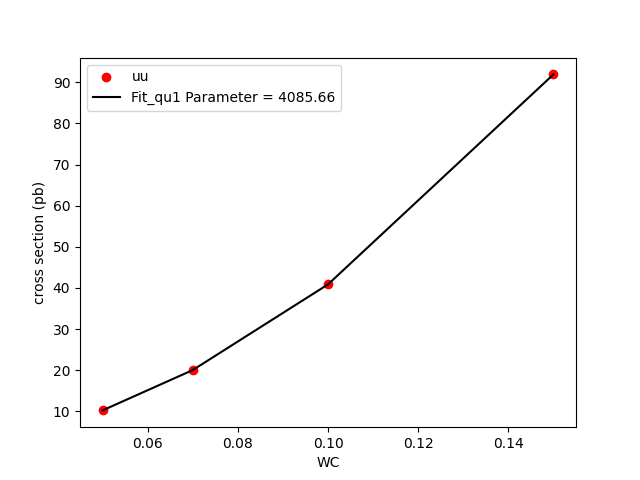
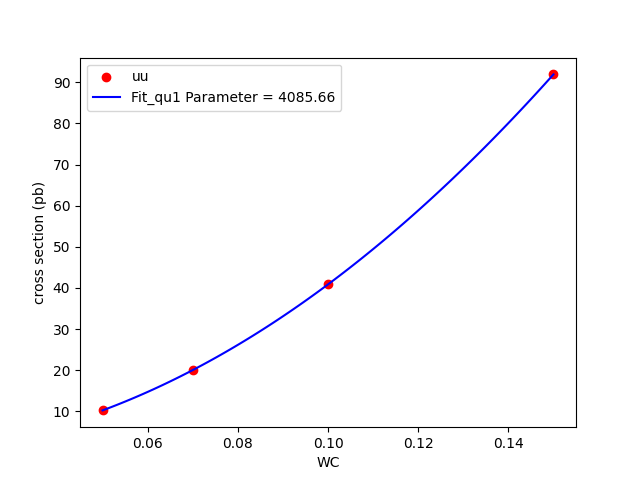
Removed old files, modifed old limit calc plotting

diff --git a/Limit_Calculation/Old_Method/Calc_Limits.py b/Limit_Calculation/Old_Method/Calc_Limits.py
@@ -8,7 +8,9 @@ def fit_function(x, a):
 def Plot_Fit(fit_result, wc, xs, string):
     plt.figure()
     plt.scatter(wc, xs, c='red', marker='o', label='uu')
-    plt.plot(wc, fit_function(wc, *fit_result), c='black', label=string + " Parameter = " + str(np.round(fit_result[0], 2)))
+    #plt.plot(wc, fit_function(wc, *fit_result), c='black', label=string + " Parameter = " + str(np.round(fit_result[0], 2)))
+    wc_range = np.linspace(wc.min(), wc.max(), 100)
+    plt.plot(wc_range, fit_function(wc_range, *fit_result), c='blue', label=string + " Parameter = " + str(np.round(fit_result[0], 2)))
     plt.xlabel('WC')
     plt.ylabel('cross section (pb)')
     plt.legend()
